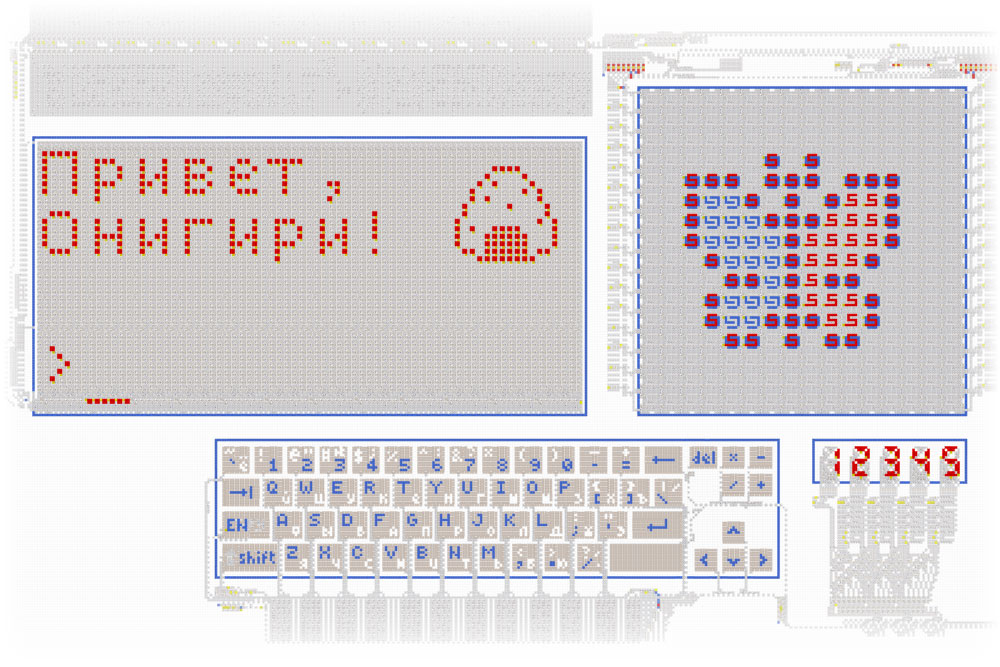
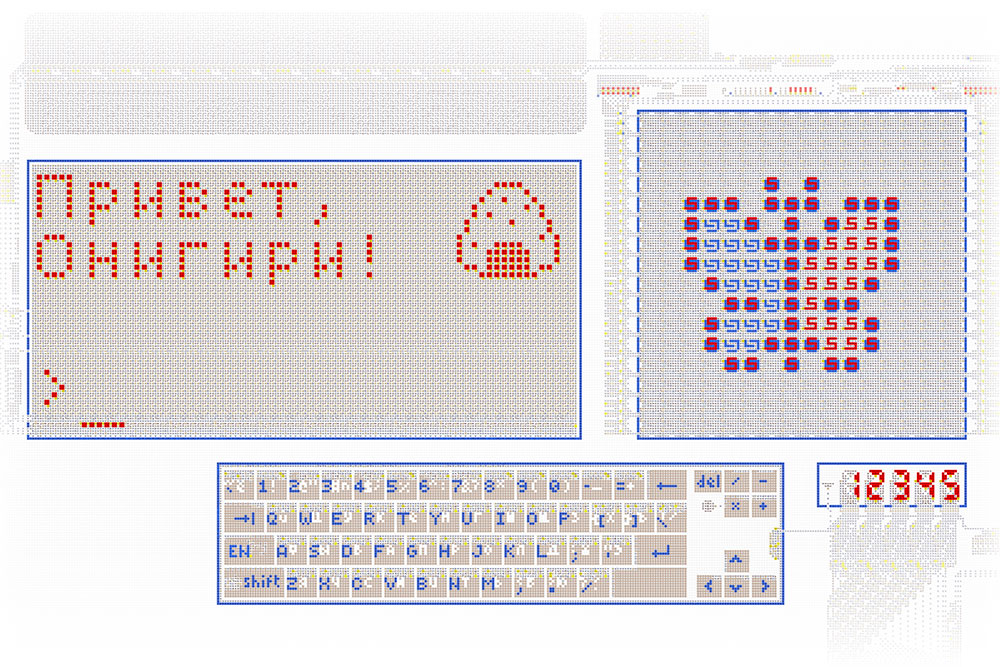
Computer v2 keyboard

diff --git a/computer-v2/specification.md b/computer-v2/specification.md
@@ -37,9 +37,9 @@
 
 
 ## Клавиатура
-Полноформатная клавиатура, приближенная к реальному ПК, с крупными клавишами и подробными подписями.
-Имеет латинскую и кириллическую раскладки, однократный и постоянный верхний регистр. Текущий режим
-клавиатуры отображается непосредственно на клавишах переключения раскладки и регистра.
+Полноформатная клавиатура, приближенная к реальному ПК. Имеет латинскую и кириллическую раскладки,
+однократный и постоянный верхний регистр. Все режимы отображаются на соответствующих клавишах. Также
+имеет индикатор, подсказывающий, когда можно вводить следующий символ.
 
 После ввода любого символа, его код может быть прочитан программой из порта `3E`. После чтения порт
 автоматически обнуляется для возможности определения повторного ввода. Коды символов соответствуют
